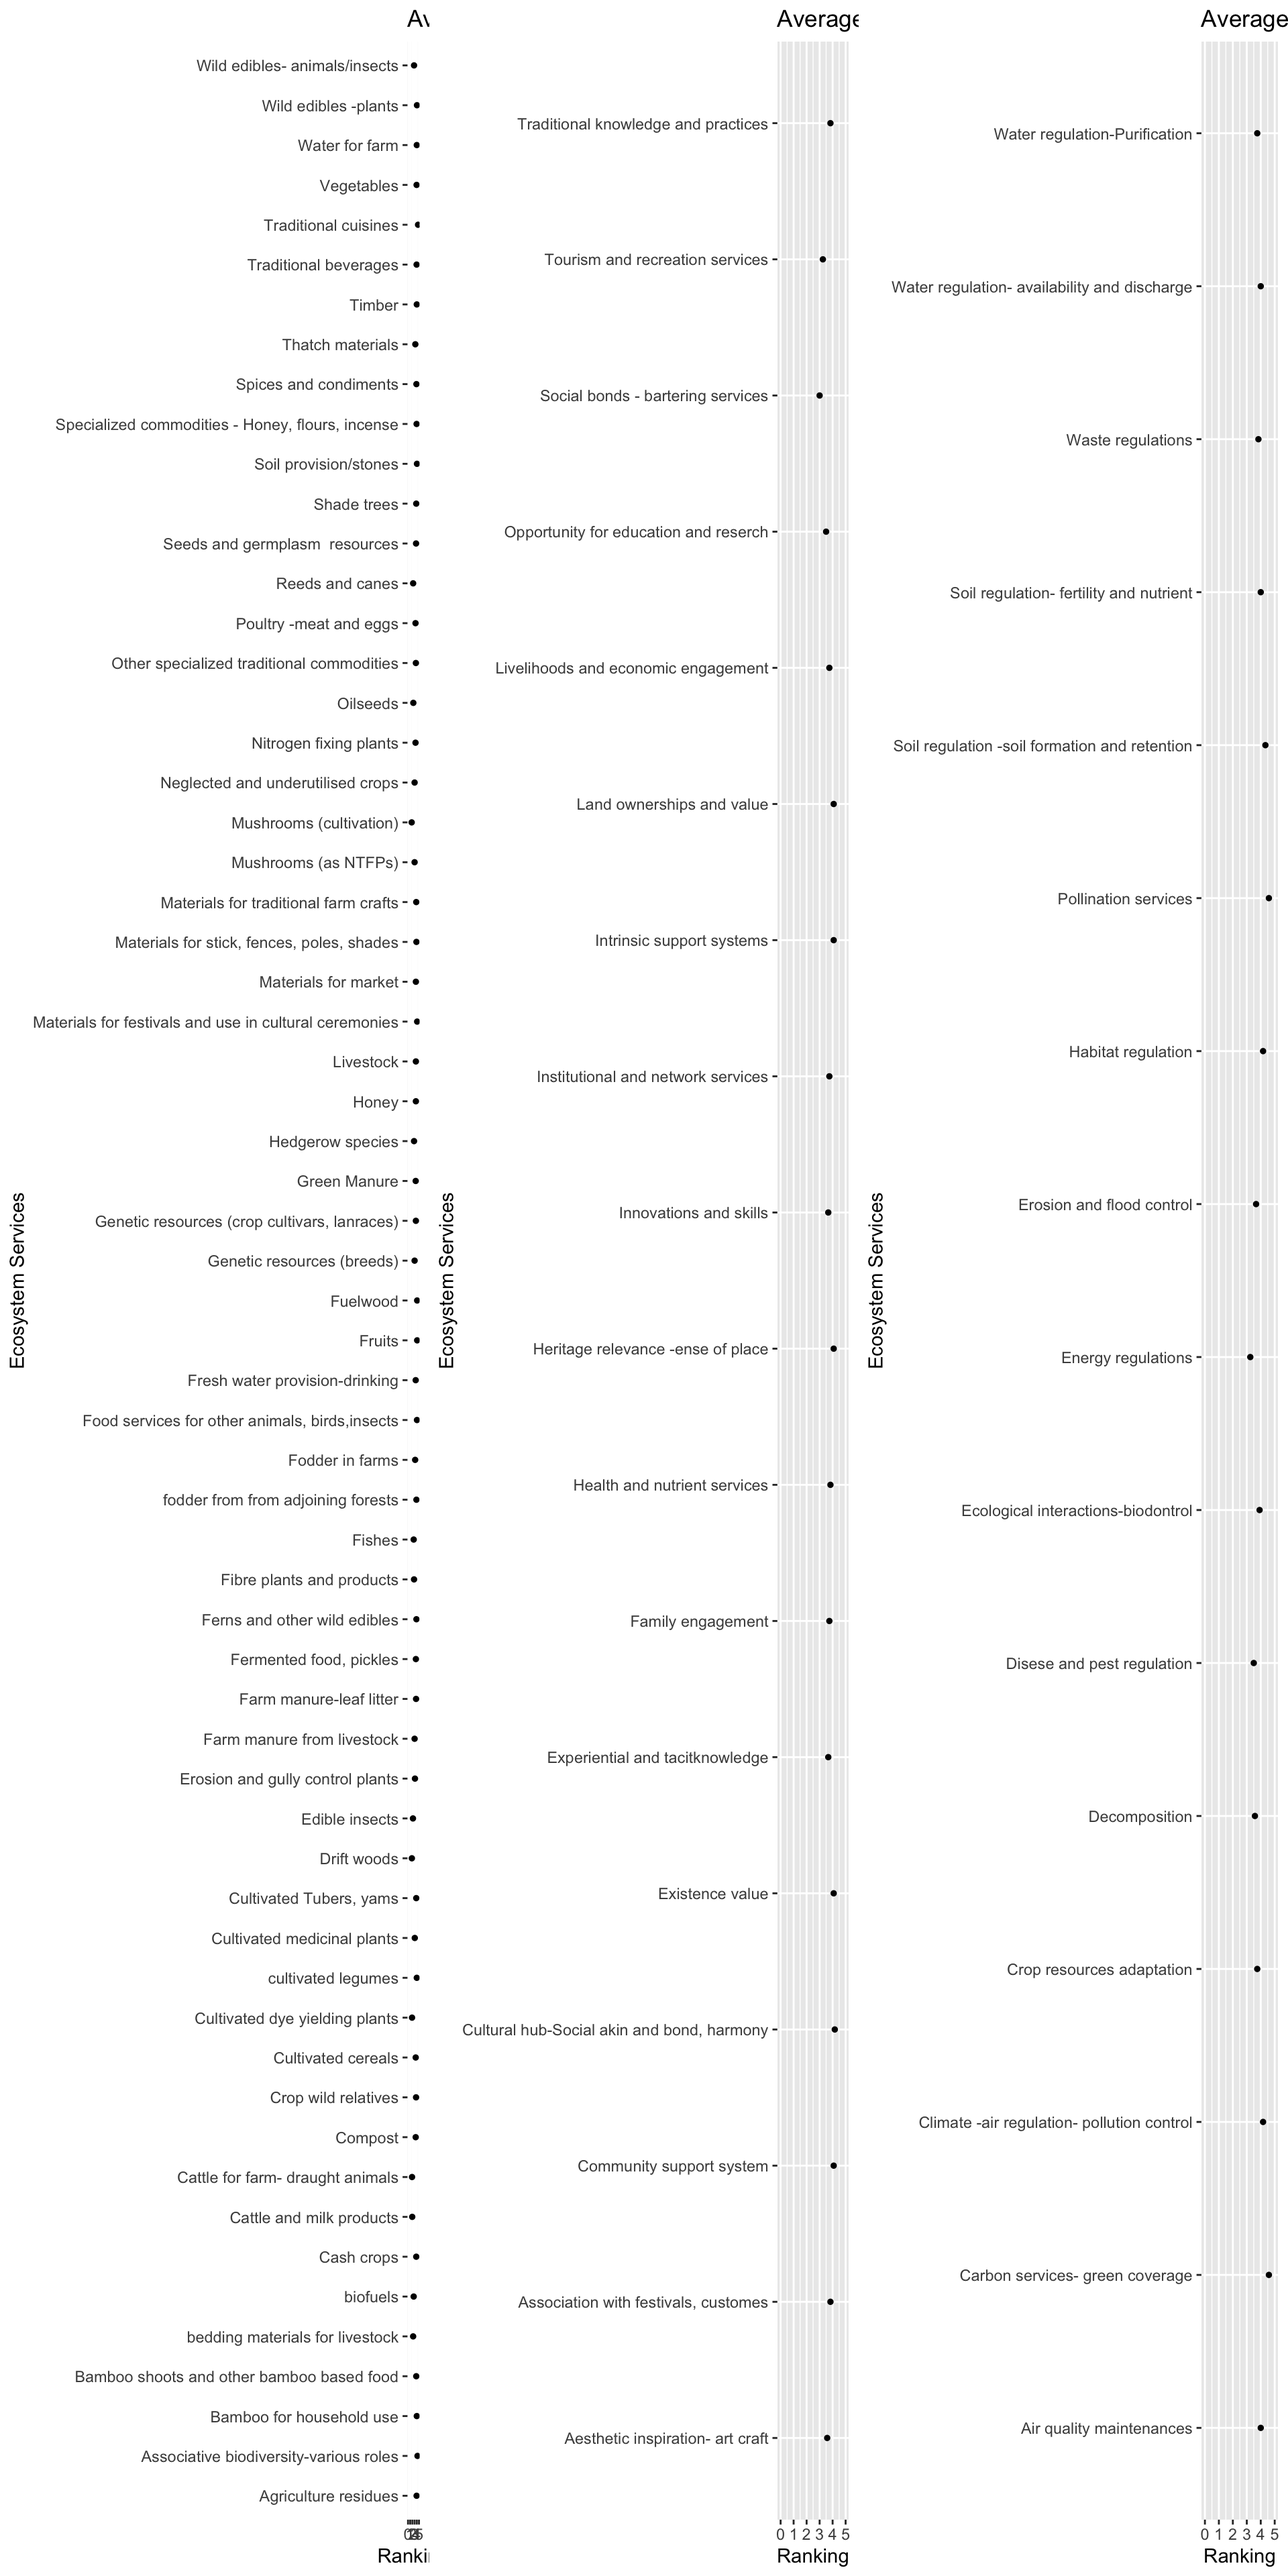
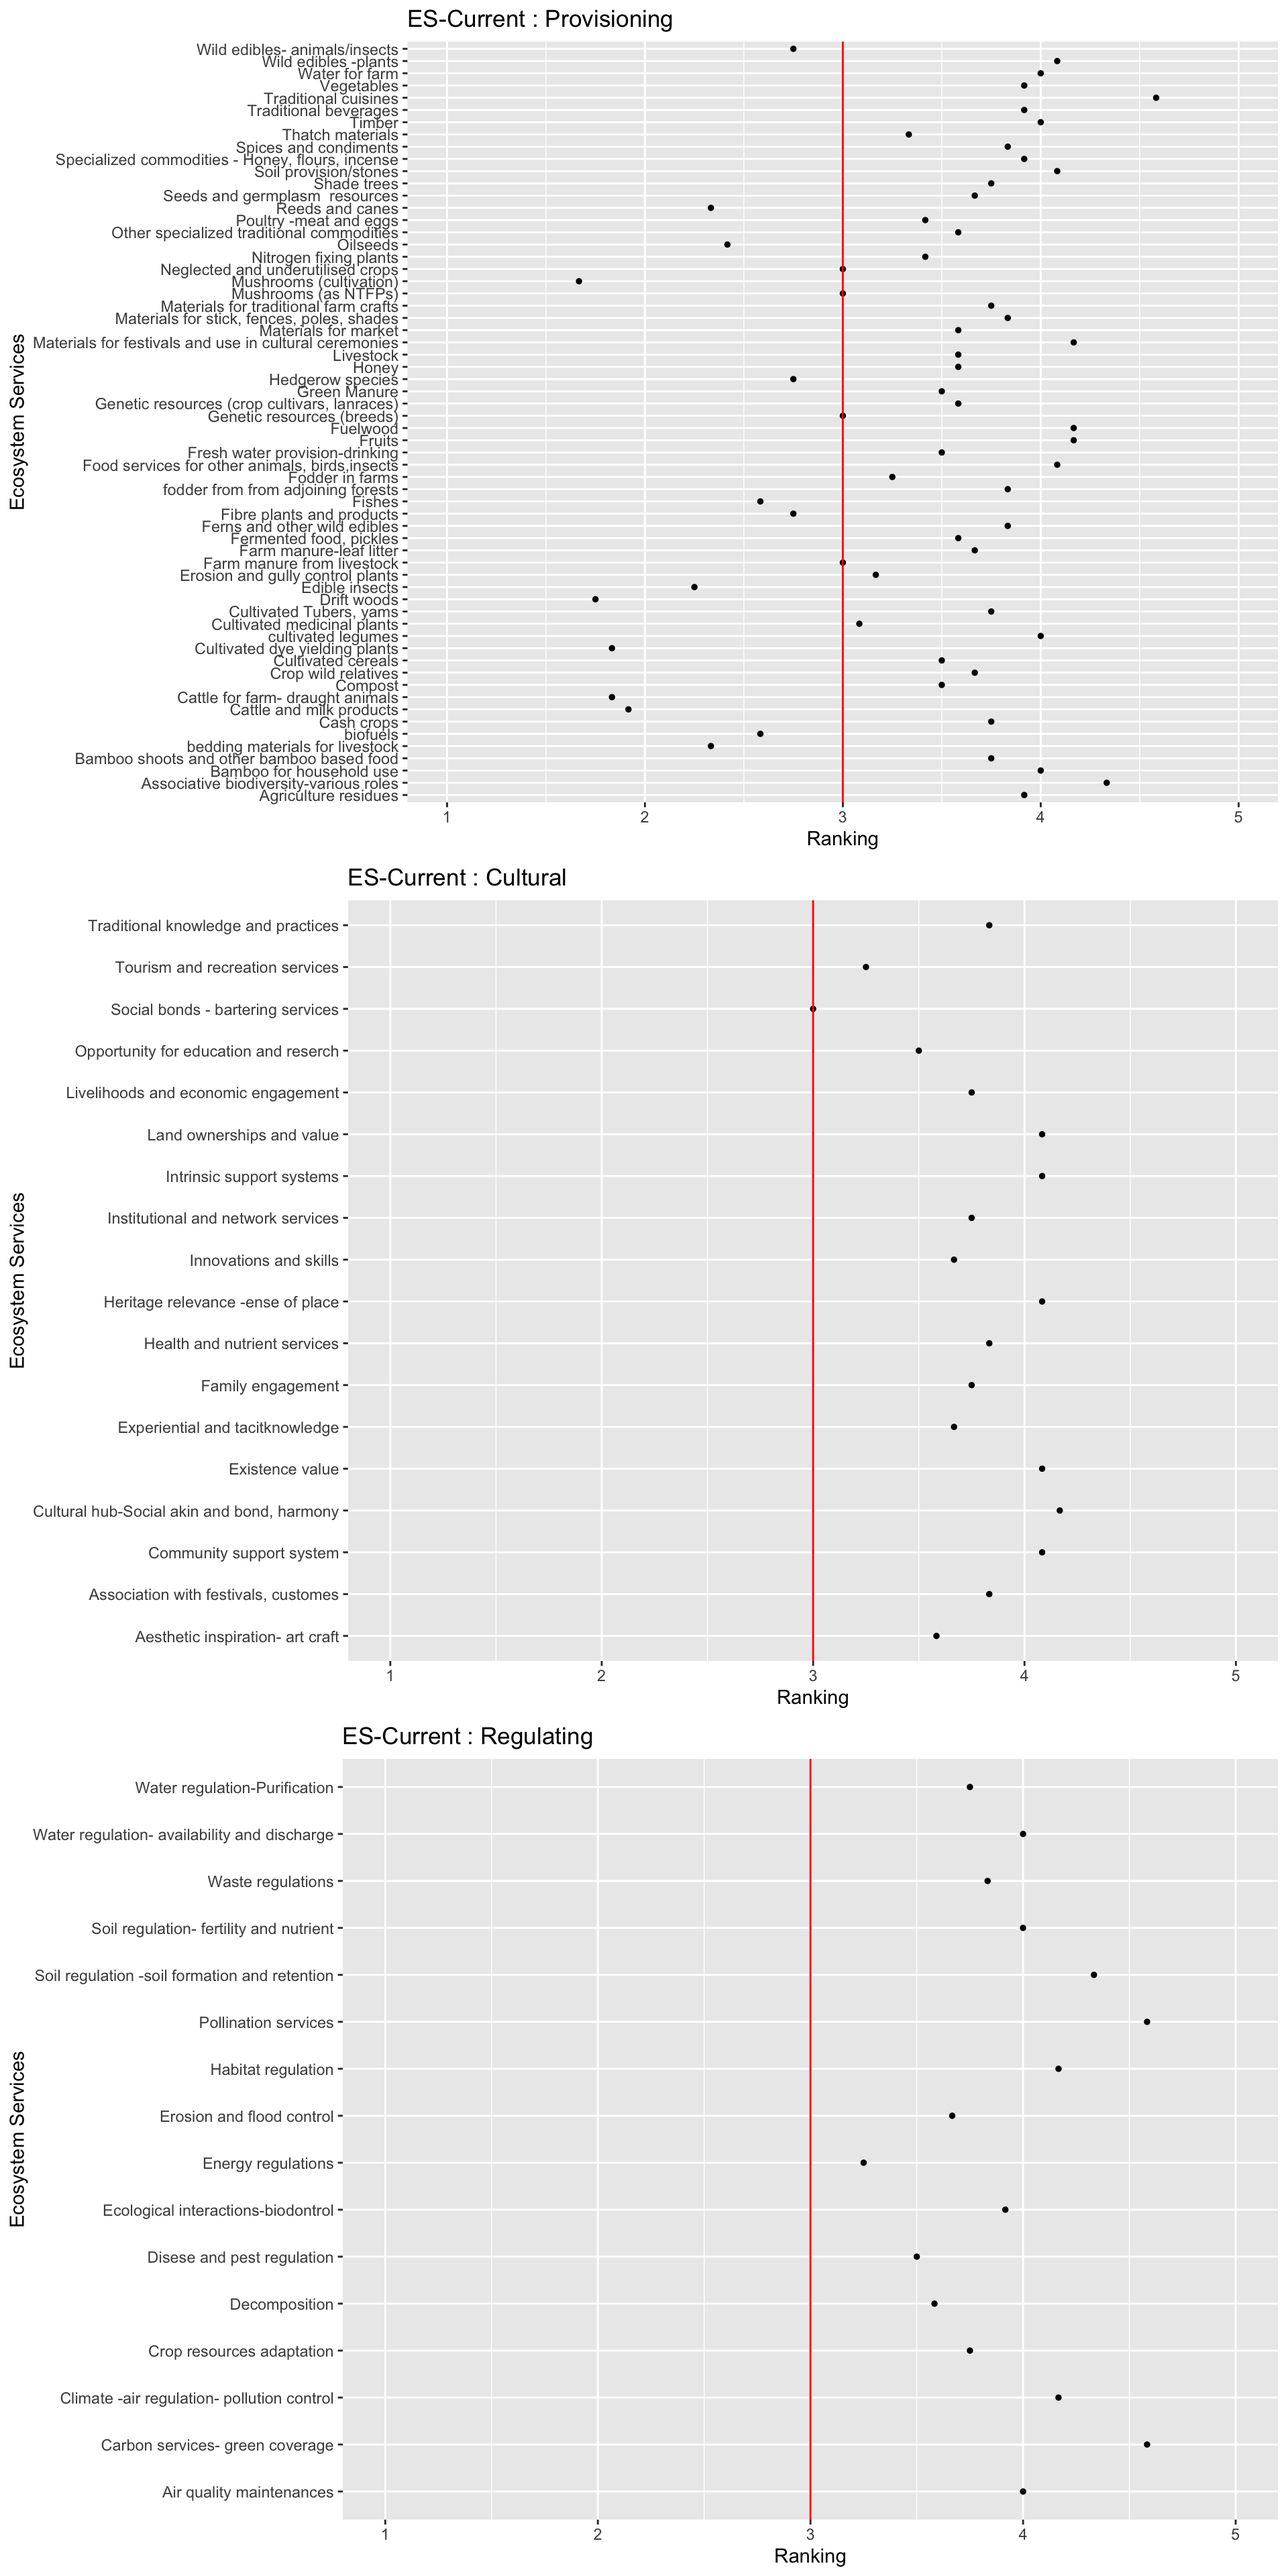
final fig 1 commits

diff --git a/docs/index.html b/docs/index.html
@@ -492,16 +492,16 @@ This reproducible <a href="http://rmarkdown.rstudio.com">R Markdown</a> analysis
 <div class="panel panel-default">
 <div class="panel-heading">
 <p class="panel-title">
-<a data-toggle="collapse" data-parent="#workflowr-checks" href="#strongRepositoryversionstrongahrefhttpsgithubcomKaranSShakyamomagservicestreee8fcdb91ffc3c76002a112580b7571fd1ef00b64targetblanke8fcdb9a"> <span class="glyphicon glyphicon-ok text-success" aria-hidden="true"></span> <strong>Repository version:</strong> <a href="https://github.com/KaranSShakya/mom-ag_services/tree/e8fcdb91ffc3c76002a112580b7571fd1ef00b64" target="_blank">e8fcdb9</a> </a>
+<a data-toggle="collapse" data-parent="#workflowr-checks" href="#strongRepositoryversionstrongahrefhttpsgithubcomKaranSShakyamomagservicestree6dc404385a6e55bc92e7f421ec59ab94d2cd1a15targetblank6dc4043a"> <span class="glyphicon glyphicon-ok text-success" aria-hidden="true"></span> <strong>Repository version:</strong> <a href="https://github.com/KaranSShakya/mom-ag_services/tree/6dc404385a6e55bc92e7f421ec59ab94d2cd1a15" target="_blank">6dc4043</a> </a>
 </p>
 </div>
[2 lines of base64/hex data omitted]
 <div class="panel-body">
 <p>
 Great! You are using Git for version control. Tracking code development and connecting the code version to the results is critical for reproducibility.
 </p>
 <p>
-The results in this page were generated with repository version <a href="https://github.com/KaranSShakya/mom-ag_services/tree/e8fcdb91ffc3c76002a112580b7571fd1ef00b64" target="_blank">e8fcdb9</a>. See the <em>Past versions</em> tab to see a history of the changes made to the R Markdown and HTML files.
+The results in this page were generated with repository version <a href="https://github.com/KaranSShakya/mom-ag_services/tree/6dc404385a6e55bc92e7f421ec59ab94d2cd1a15" target="_blank">6dc4043</a>. See the <em>Past versions</em> tab to see a history of the changes made to the R Markdown and HTML files.
 </p>
 <p>
 Note that you need to be careful to ensure that all relevant files for the analysis have been committed to Git prior to generating the results (you can use <code>wflow_publish</code> or <code>wflow_git_commit</code>). workflowr only checks the R Markdown file, but you know if there are other scripts or data files that it depends on. Below is the status of the Git repository when the results were generated:
@@ -553,6 +553,40 @@ Message
 </tr>
 </thead>
 <tbody>
+<tr>
+<td>
+Rmd
+</td>
+<td>
+<a href="https://github.com/KaranSShakya/mom-ag_services/blob/6dc404385a6e55bc92e7f421ec59ab94d2cd1a15/analysis/index.Rmd" target="_blank">6dc4043</a>
+</td>
+<td>
+KaranSShakya
+</td>
+<td>
+2020-05-19
+</td>
+<td>
+fig1 all 3 graphs.
+</td>
+</tr>
+<tr>
+<td>
+html
+</td>
+<td>
+<a href="https://rawcdn.githack.com/KaranSShakya/mom-ag_services/6dc404385a6e55bc92e7f421ec59ab94d2cd1a15/docs/index.html" target="_blank">6dc4043</a>
+</td>
+<td>
+KaranSShakya
+</td>
+<td>
+2020-05-19
+</td>
+<td>
+fig1 all 3 graphs.
+</td>
+</tr>
 <tr>
 <td>
 Rmd
@@ -648,7 +682,7 @@ Start workflowr project.
 <p>Hello! This is a GitHub website I built for your dataset. I will update this page with different visualizations from your data.</p>
 <div id="average-scatter-plot---current" class="section level3">
 <h3>Average Scatter Plot - Current</h3>
-<p>Since showing 100 variables on one graph is hard, I divided the ecosystem services into 3 (Provisioning, Cultural, Regulating). The first one is simply an avgerage of the survey results. <img src="figure/index.Rmd/unnamed-chunk-2-1.png" width="960" style="display: block; margin: auto;" /></p>
+<p>Since showing 100 variables on one graph is hard, I divided the ecosystem services into 3 (Provisioning, Cultural, Regulating). I put <em>supporting</em> into <em>provisioning</em>. <img src="figure/index.Rmd/unnamed-chunk-2-1.png" width="960" style="display: block; margin: auto;" /></p>
 <p>
 <button type="button" class="btn btn-default btn-xs btn-workflowr btn-workflowr-fig" data-toggle="collapse" data-target="#fig-unnamed-chunk-2-1">
 Past versions of unnamed-chunk-2-1.png
@@ -671,6 +705,17 @@ Date
 </tr>
 </thead>
 <tbody>
+<tr>
+<td>
+<a href="https://github.com/KaranSShakya/mom-ag_services/blob/6dc404385a6e55bc92e7f421ec59ab94d2cd1a15/docs/figure/index.Rmd/unnamed-chunk-2-1.png" target="_blank">6dc4043</a>
+</td>
+<td>
+KaranSShakya
+</td>
+<td>
+2020-05-19
+</td>
+</tr>
 <tr>
 <td>
 <a href="https://github.com/KaranSShakya/mom-ag_services/blob/e8fcdb91ffc3c76002a112580b7571fd1ef00b64/docs/figure/index.Rmd/unnamed-chunk-2-1.png" target="_blank">e8fcdb9</a>
@@ -697,6 +742,9 @@ KaranSShakya
 </table>
 </div>
 </div>
+<p>This is the most general scatterplot of the survey results for current. Since <strong>cultural</strong> and <strong>regulating</strong> do not have any variable that averaged below 3 (satisfactory), we can conclude that most villages are happy or at least satisfied with these ES. However, there are a lot of variables below 3 for <strong>provisional</strong>, which might suggest that we focus on this ES.</p>
+<hr />
+<p>Next step: more exploratory analysis on provisional ES.</p>
 <br>
 <p>
 <button type="button" class="btn btn-default btn-workflowr btn-workflowr-sessioninfo" data-toggle="collapse" data-target="#workflowr-sessioninfo" style="display: block;">
